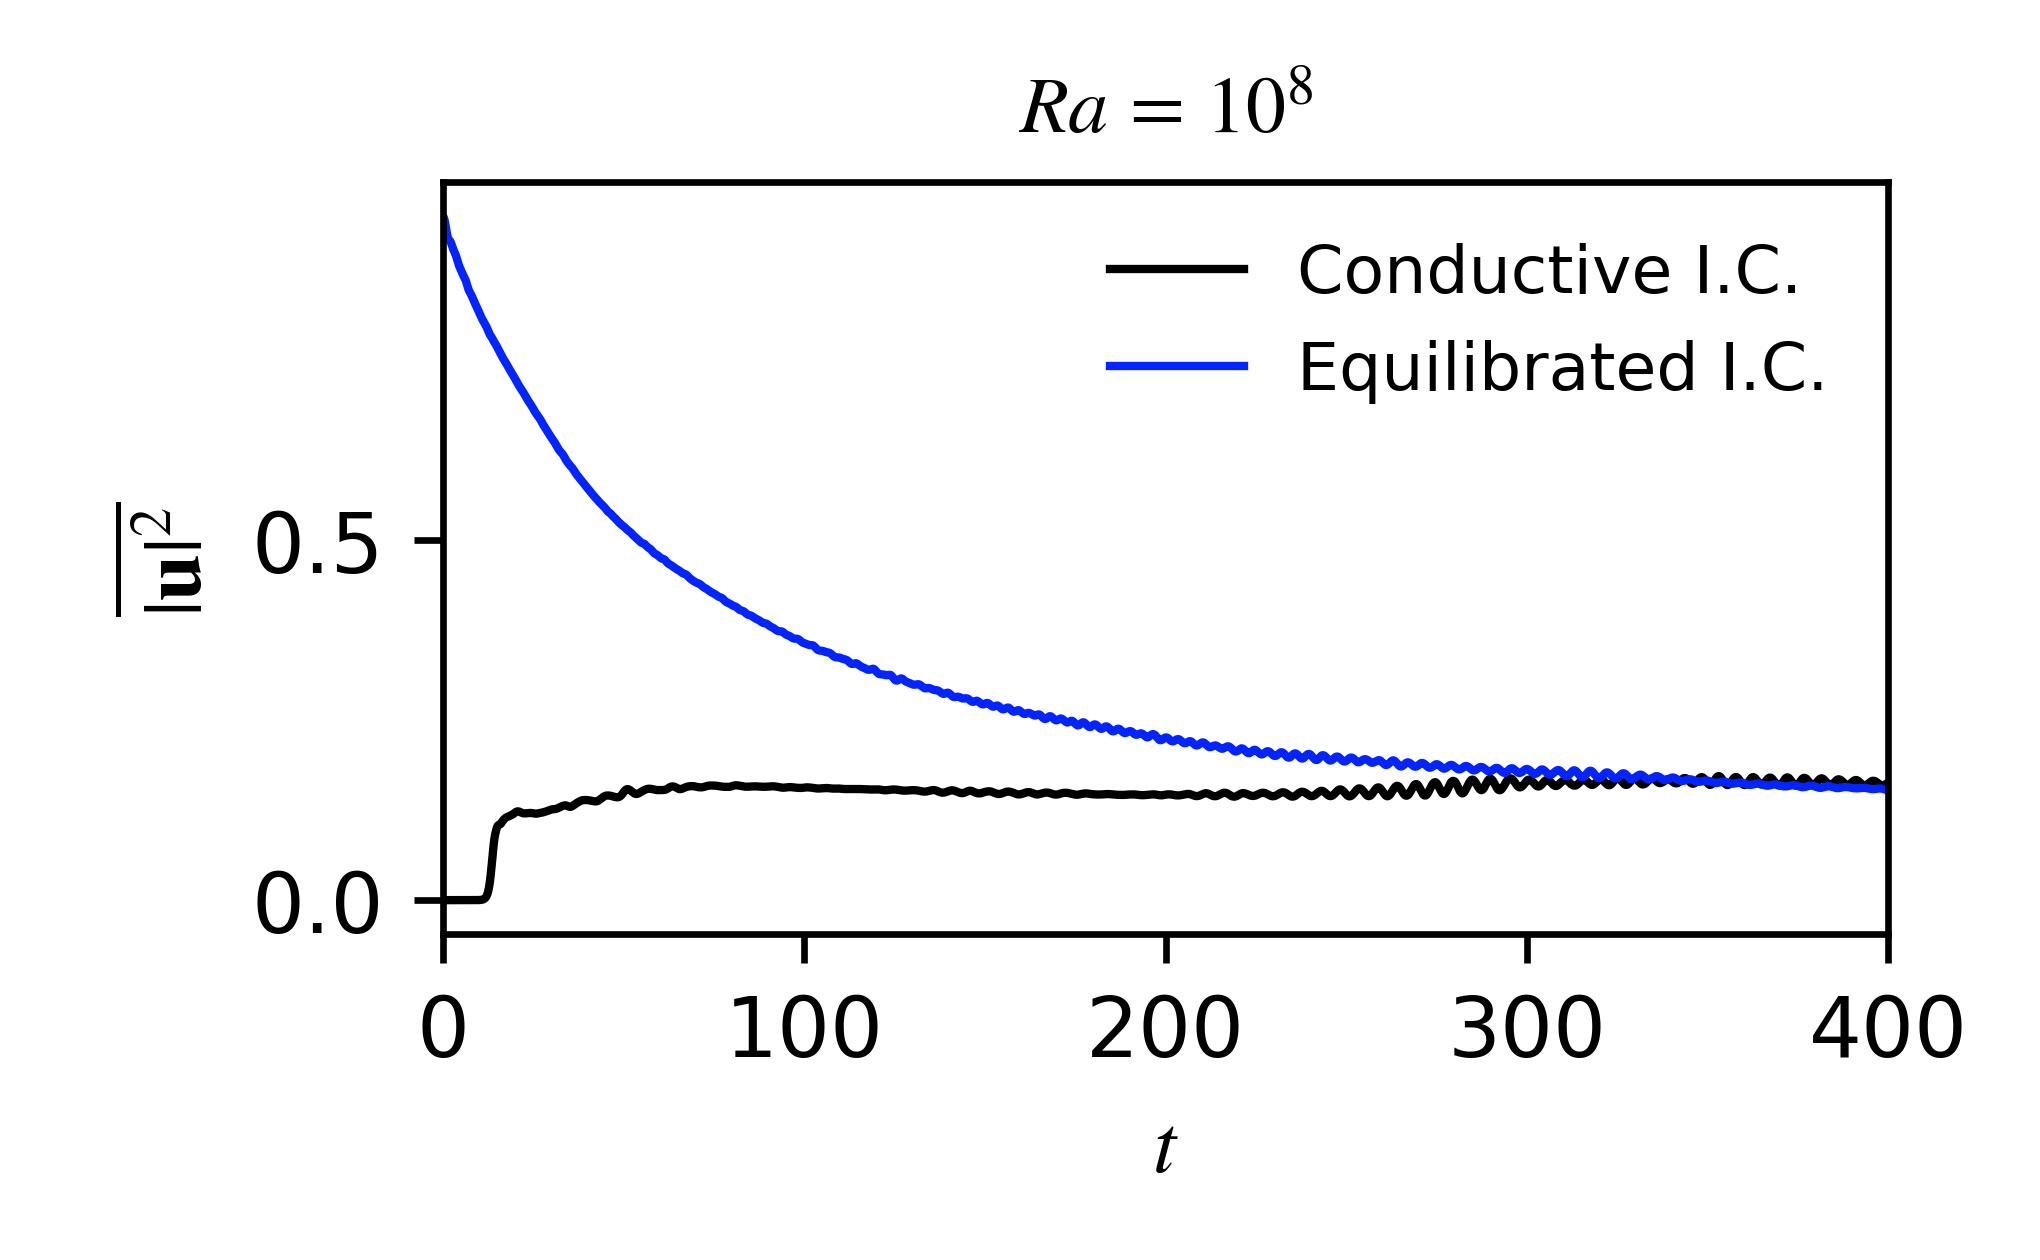
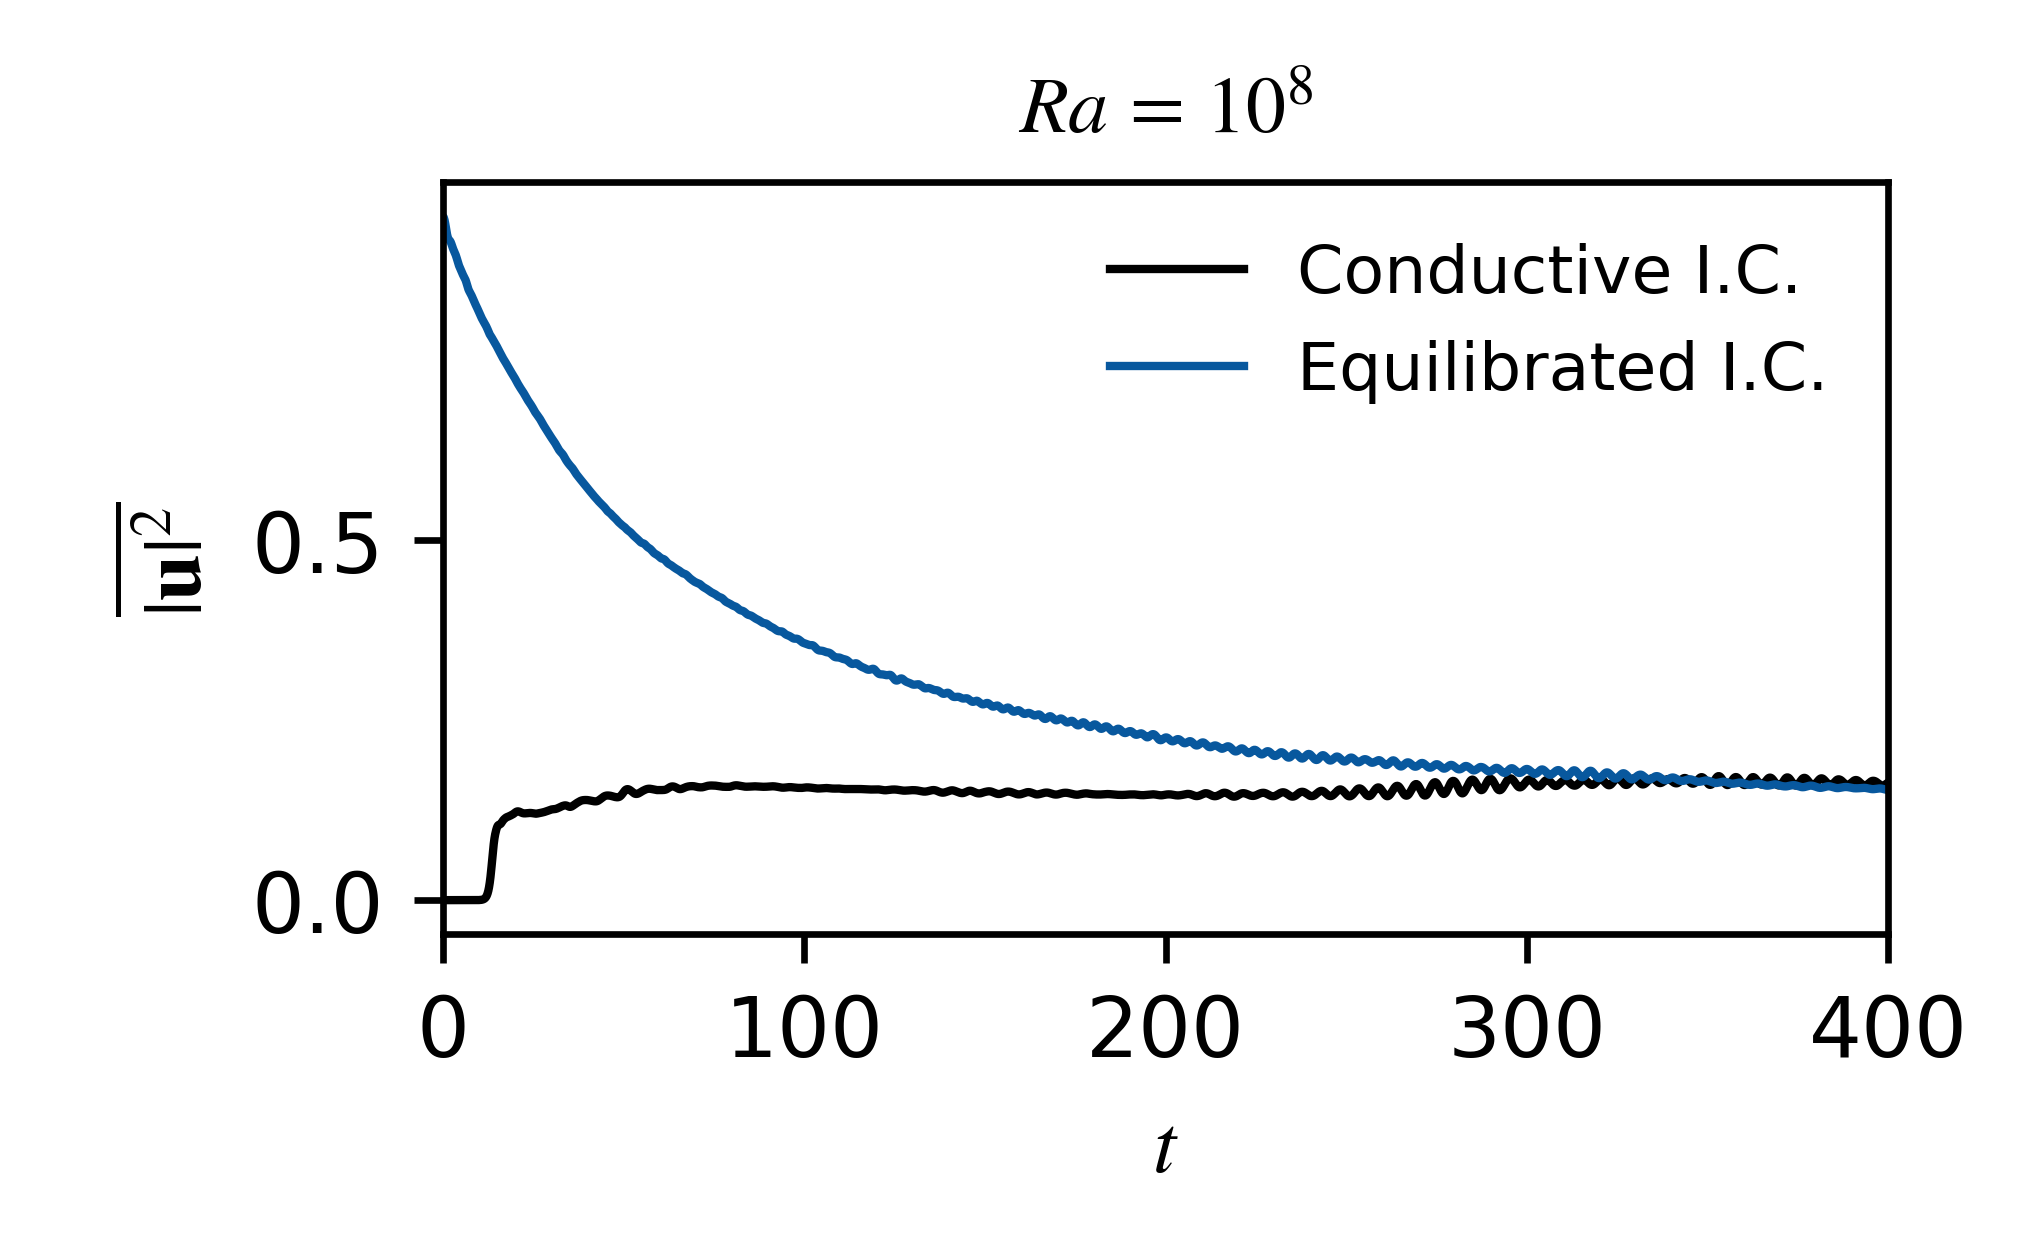
complete pfe figs

diff --git a/plot_flux.py b/plot_flux.py
@@ -93,7 +93,8 @@ def plot_flux(Rayleigh, ax, path, iteration):
         flux = diffusion + advection
         pi_mult = str(round(kx/np.pi, 1))
         ax.plot(z, diffusion, label = 'Diffusion', color='black', linestyle=(0, (5, 1)), zorder=10)
-        ax.plot(z, advection, label = 'Advection ($k_x  = $' + pi_mult + '$\pi$)', color='#08589e')
+        colors = plt.rcParams['axes.prop_cycle'].by_key()['color']
+        ax.plot(z, advection, label = 'Advection ($k_x  = $' + pi_mult + '$\pi$)', color=colors[-1])
         ax.plot(z, flux, label = 'Total', color='black')
         ax.set_xlim(-0.5, 0.0)
         ax.legend(frameon=False, loc='center right')

diff --git a/publication_settings.py b/publication_settings.py
@@ -11,8 +11,7 @@ colors = ['#a8ddb5',
   '#7bccc4',
   '#4eb3d3',
   '#2b8cbe',
-  '#08589e',
-  '#0324fc']
+  '#08589e']
 
 params = {#'backend': 'eps',
           'axes.prop_cycle' : matplotlib.cycler(color=colors),
